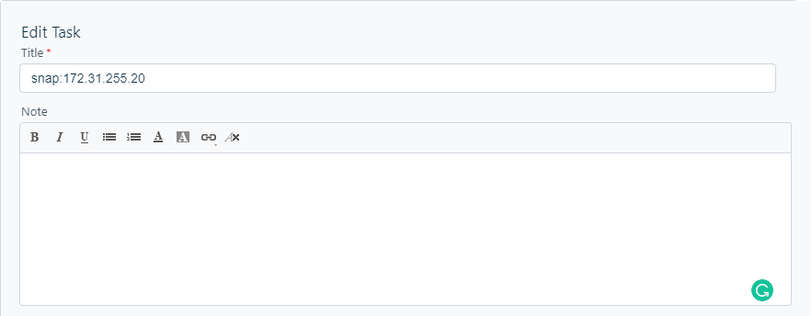
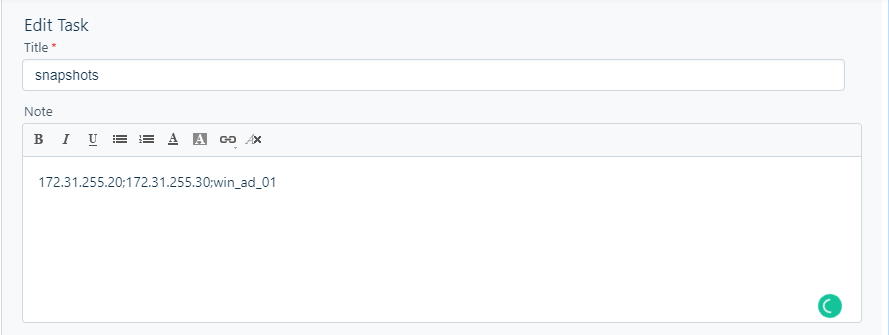
- Updated README

Changed region(s): [[0.0, 0.057, 0.9852, 0.9684], [0.0, 0.0, 0.9544, 0.0285]]

diff --git a/README.md b/README.md
@@ -45,6 +45,8 @@ This document can be decoupled into 3 main parts:
 4.  The script will provide you the snapshot id(s) on Slack upon creation.
     
 5.  The script only takes root volume snapshots.
+
+6.  The script will close the Fresh Service task after successful completion.
     
 <br/>
 
@@ -83,7 +85,7 @@ There are a set of instructions to **strictly** follow to run the script correct
     
 2.  A list of tasks should be defined in Fresh Service in the following syntax (A screenshot has been inserted below):
     
-    *   Only tasks with the title of **snap:instance\_ip** will take snapshots. Here **instance\_ip** is the IP address of the instance on AWS
+    *   Only tasks with the title of **snapshot(s)** will be taken into considerations. In the description of the task, list all your instances either by **instance name** or **IP number** separated by a **semi-column**:
         
 ![Task Format](./screenshots/task_format.png)
 
